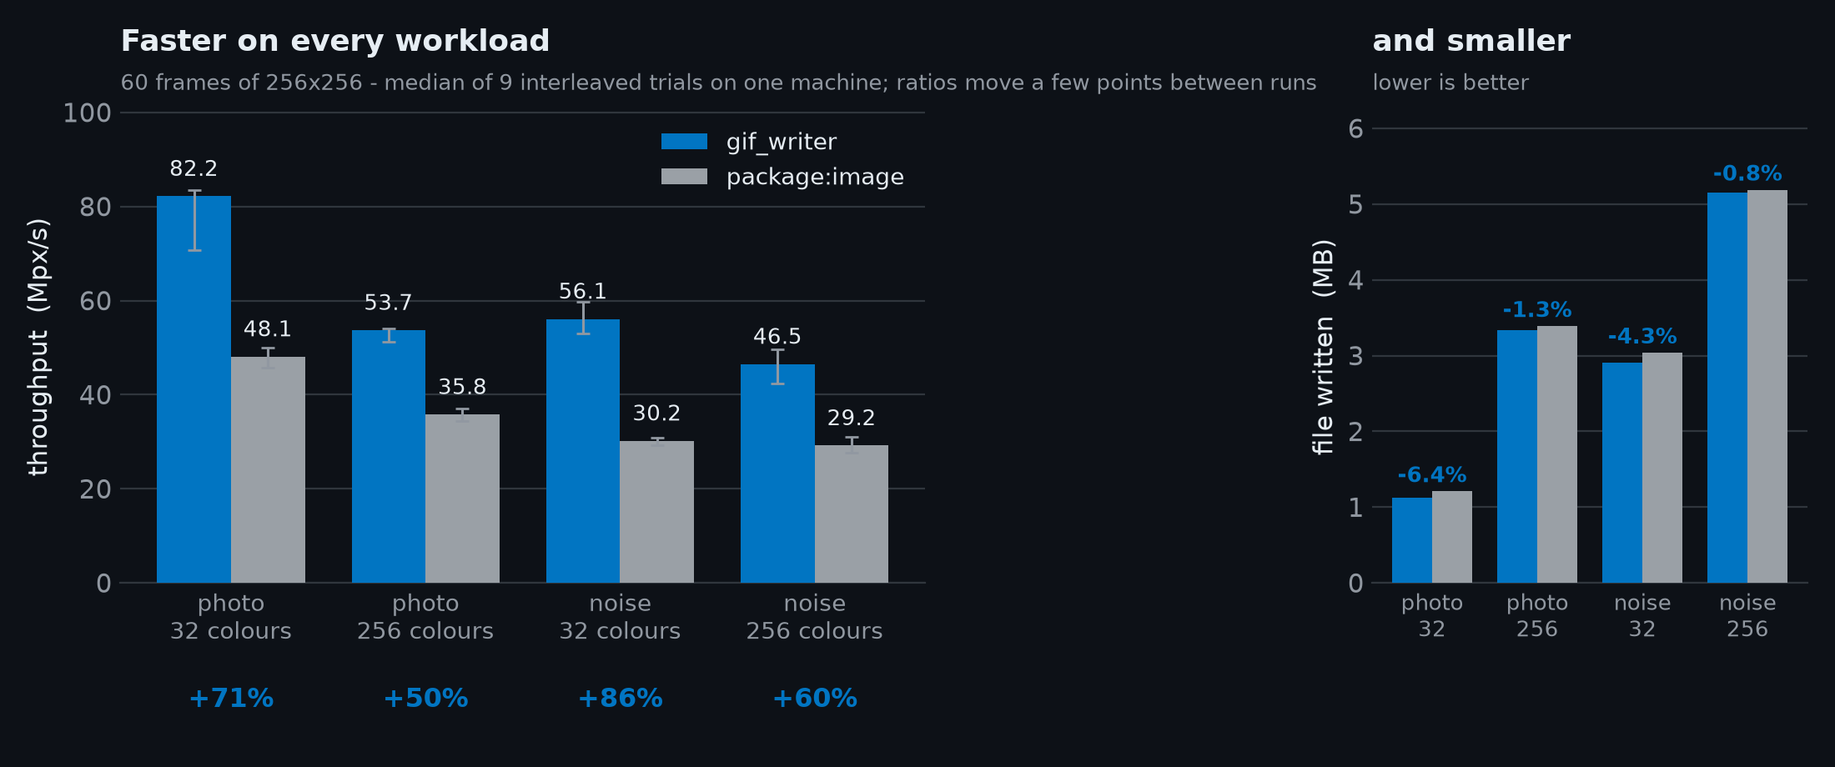
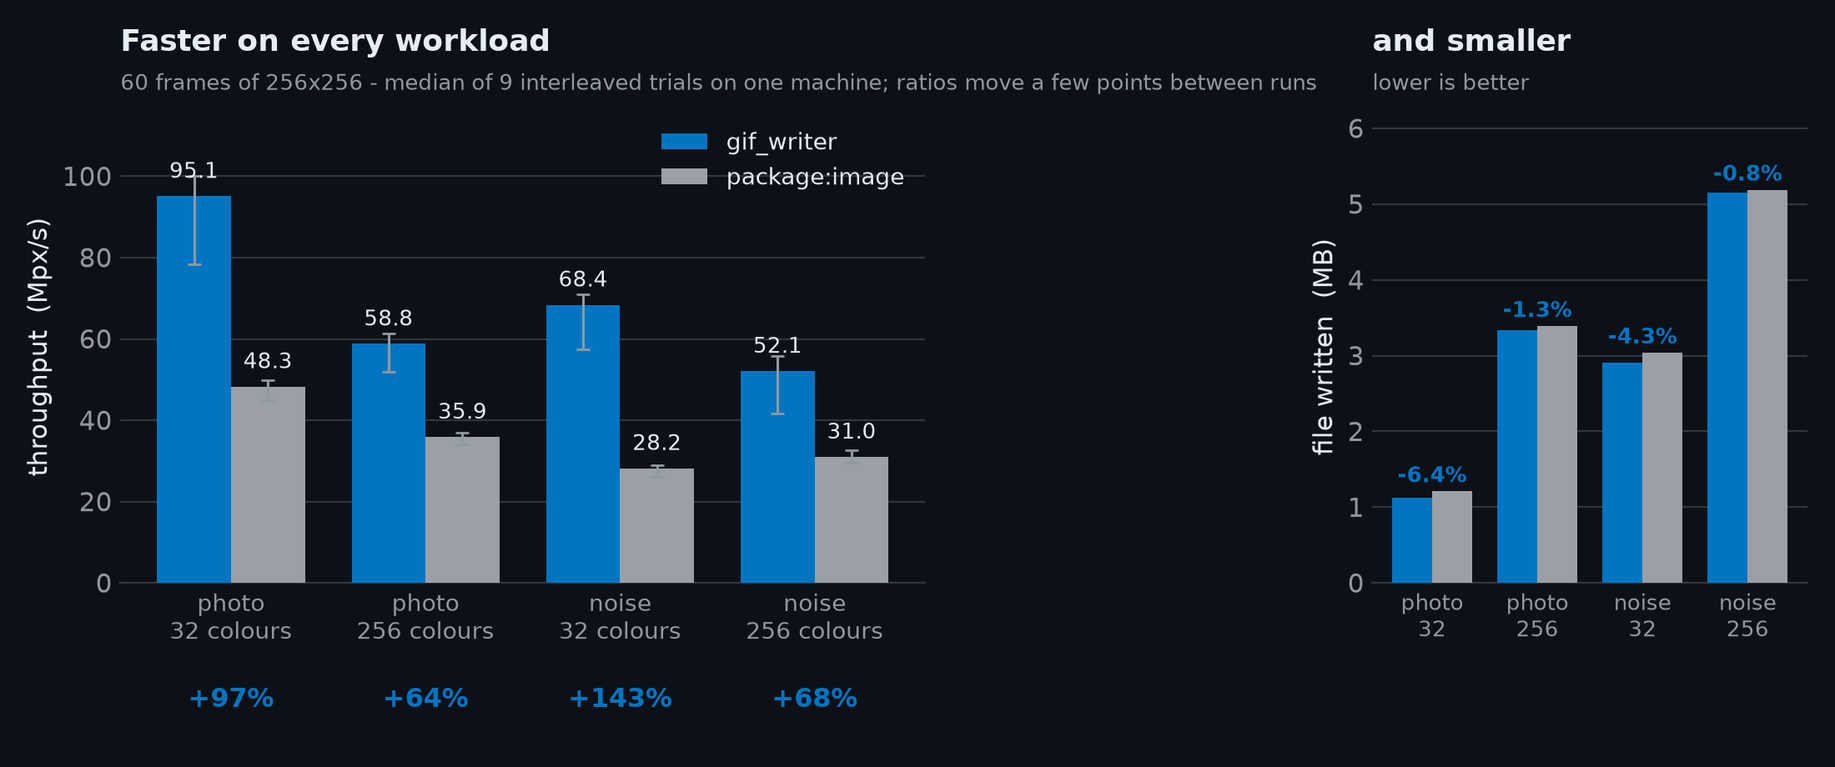
Enlarge the LZW hash to 32768 and report the benchmarks that justify it under AOT
- Set `_hashSize` to 32768; re-measured AOT across 8192/16384/32768/65536, it wins noise and photo now that epoch clearing is free, while 65536 loses the noise win to cache pressure (indexed output byte-identical; held memory 0.19 to 0.31 MB, still flat)
- Build `benchmark.dart` and `compare.dart` with `dart compile exe` and regenerate the README's throughput, comparison and memory figures as AOT medians; keep `dart run` as a documented quick path
- Fix a hardcoded `0.06 MB` label in the memory chart that ignored the value beside it
- Bump to 0.3.1, record both changes in the CHANGELOG, and mark the two items shipped in the roadmap

diff --git a/lib/src/lzw.dart b/lib/src/lzw.dart
@@ -21,7 +21,9 @@ const int _maxCodes = 1 << _maxCodeWidth;
 /// - **9973, prime, addressed with `key % _hashSize`.** Correct, and far better
 ///   than the broken hash it replaced, but a division per pixel is expensive
 ///   exactly where runs are long and the first probe already succeeds: it
-///   measured 86.8 Mpx/s on a gradient against 142.9 for what is here now.
+///   measured 86.8 Mpx/s on a gradient against the 142.9 of the power-of-two
+///   table that replaced it — both under the JIT of the day, before the sizing
+///   below was redone AOT.
 ///
 /// What wins is a power of two with a *mixing* hash and an **odd** displacement.
 /// Odd is coprime to a power of two, so the probe still visits every slot — the
@@ -29,25 +31,32 @@ const int _maxCodes = 1 << _maxCodeWidth;
 ///
 /// *Large*, because the classic 5003 the original UNIX `compress` used puts the
 /// load factor at 0.82, where open addressing probes several times per pixel; at
-/// 16384 it is 0.25. This is the top of the curve, and both neighbours were
-/// measured on the three benchmark workloads:
+/// 32768 it is 0.125. The four powers of two around it were measured together,
+/// AOT and interleaved, on the three benchmark workloads:
 ///
 /// | slots | memory | noise | photo | gradient |
 /// | ---: | ---: | ---: | ---: | ---: |
-/// | 8192 | 64 kB | 51.6 | 75.4 | 132.0 |
-/// | **16384** | **128 kB** | **59.7** | **89.5** | **142.9** |
-/// | 32768 | 256 kB | 60.9 | 88.2 | 137.0 |
+/// | 8192 | 64 kB | 51.3 | 76.3 | 152.7 |
+/// | 16384 | 128 kB | 59.5 | 88.1 | 158.1 |
+/// | **32768** | **256 kB** | **64.4** | **94.1** | **156.3** |
+/// | 65536 | 512 kB | 63.9 | 93.3 | 170.4 |
 ///
-/// Those three rows were measured when every reset **zeroed** this table, which
-/// is why 32768 looked like a wash: doubling the table doubled a clear that ran
-/// ten to seventeen times a frame, cancelling the shorter probes. Epoch stamping
-/// (see [_hashKeys]) removed that cost, so the comparison no longer holds and
-/// **the sizes want re-measuring** — a bigger table is now nearly free between
-/// frames and may well win.
+/// **32768 wins the two workloads that matter, and 65536 does not.** Noise is
+/// LZW's worst case and the truest test of the hash: it peaks at 32768 and falls
+/// back at 65536, where 512 kB of table no longer sits comfortably in cache.
+/// Photo, representative content, peaks at 32768 too. Only the gradient prefers a
+/// larger table — and the gradient is best case, long runs that barely touch the
+/// hash at all, so its column is the noisiest here and the least worth sizing for.
 ///
-/// 128 kB of `Int32List` is the current price, allocated once for the whole
-/// animation rather than per frame.
-const int _hashSize = 16384;
+/// This overturns the earlier finding that 16384 was the top of the curve. That
+/// was measured when every reset **zeroed** the table, so doubling the table
+/// doubled a clear that ran ten to seventeen times a frame and cancelled the
+/// shorter probes. Epoch stamping (see [_hashKeys]) made clearing nearly free,
+/// and once it is, 32768 wins outright. The only remaining cost of the larger
+/// table is its 256 kB of `Int32List`, paid once for the whole animation rather
+/// than per frame; the package's held memory rises from 0.19 MB to 0.31 MB with
+/// it, and stays flat at any length.
+const int _hashSize = 32768;
 const int _hashMask = _hashSize - 1;
 
 /// Where the epoch sits in a slot, above the 21 bits `key + 1` needs.
@@ -145,13 +154,13 @@ final class GifLzwEncoder {
         // quietly broken for small palettes: with 32 colours `pixel << 4` never
         // exceeds 496, so the xor never exceeds 4095 and **only 4096 slots can
         // ever be addressed, whatever the table's size**. The load factor is
-        // then 1.0 rather than 0.25 and the probe below walks a long way.
+        // then 1.0 rather than 0.125 and the probe below walks a long way.
         //
         // Shifting the key down by six folds `pixel` — which lives in bits 12
         // and up — into the low bits alongside `prefix`, so every slot is
         // reachable at every palette size. Measured on the three benchmark
-        // workloads, against that classic hash: 27.2 to 59.7 Mpx/s on noise,
-        // and 135.9 to 142.9 on a gradient.
+        // workloads, against that classic hash, both under the JIT of the day:
+        // 27.2 to 59.7 Mpx/s on noise, and 135.9 to 142.9 on a gradient.
         var slot = (key ^ (key >> 6)) & _hashMask;
         // Open addressing with a key-dependent displacement, which beats linear
         // probing badly here: consecutive pixels share a prefix, so keys arrive

diff --git a/tool/benchmark.dart b/tool/benchmark.dart
@@ -7,9 +7,12 @@ import 'sample_image.dart';
 
 /// Throughput of the encoder, measured rather than assumed.
 ///
-/// Run with `dart run tool/benchmark.dart`. Compare candidates **inside one
-/// run**: absolute figures move with the machine's thermal state and with what
-/// else it is doing, so only ratios measured together mean anything.
+/// Run it with `dart run tool/benchmark.dart` for a quick look, or — because the
+/// JIT's numbers wander — build it with `dart compile exe` and run that, which is
+/// how a Flutter release build runs this package and is the mode `ROADMAP.md`
+/// asks these numbers be reported in. Compare candidates **inside one run**:
+/// absolute figures move with the machine's thermal state and with what else it
+/// is doing, so only ratios measured together mean anything.
 ///
 /// A sink that counts and discards, so the disk is not being benchmarked.
 final class CountingSink implements StreamSink<List<int>> {
@@ -49,8 +52,9 @@ Future<void> main() async {
   final photo = SampleImage.photo(side: size, colours: colours);
 
   Future<void> run(String name, Uint8List frame) async {
-    // One untimed pass first: the JIT should be warm before the clock starts, or
-    // the first candidate measured always looks slowest.
+    // One untimed pass first: a cold run pays for cold caches and the CPU's
+    // frequency ramp, so the first candidate measured always looks slowest.
+    // (Under AOT there is no JIT to warm — this pass still matters.)
     for (var warm = 0; warm < 2; warm++) {
       final sink = CountingSink();
       final gif = GifWriter(sink, width: size, height: size, colors: table);

diff --git a/tool/compare.dart b/tool/compare.dart
@@ -7,7 +7,10 @@
 /// the comparison would say nothing. Both outputs are decoded and checked
 /// pixel-for-pixel before a single timing is printed.
 ///
-/// Run it yourself: `dart run tool/compare.dart`.
+/// Run it with `dart run tool/compare.dart`, or — because the JIT's numbers
+/// wander — build it first with `dart compile exe` and run that, which is how a
+/// Flutter release build runs this package and the mode `ROADMAP.md` asks these
+/// numbers be reported in.
 library;
 
 import 'dart:async';

diff --git a/tool/charts.py b/tool/charts.py
@@ -21,12 +21,12 @@ OUT = "doc"
 # 60 frames of 256x256, both encoders given pre-palettised input.
 WORKLOADS = ["photo\n32 colours", "photo\n256 colours",
              "noise\n32 colours", "noise\n256 colours"]
-OURS = [82.2, 53.7, 56.1, 46.5]
-OURS_LOW = [70.8, 51.2, 53.0, 42.4]
-OURS_HIGH = [83.5, 54.0, 59.7, 49.6]
-THEIRS = [48.1, 35.8, 30.2, 29.2]
-THEIRS_LOW = [45.8, 34.4, 29.3, 27.6]
-THEIRS_HIGH = [50.0, 37.0, 30.9, 31.0]
+OURS = [95.1, 58.8, 68.4, 52.1]
+OURS_LOW = [78.4, 51.9, 57.4, 41.7]
+OURS_HIGH = [100.0, 61.3, 71.0, 55.7]
+THEIRS = [48.3, 35.9, 28.2, 31.0]
+THEIRS_LOW = [45.0, 34.0, 26.1, 29.6]
+THEIRS_HIGH = [49.8, 37.0, 29.0, 32.6]
 
 OURS_MB = [1.13, 3.34, 2.91, 5.15]
 THEIRS_MB = [1.21, 3.39, 3.04, 5.19]
@@ -35,18 +35,18 @@ THEIRS_MB = [1.21, 3.39, 3.04, 5.19]
 # **Not derived from the MB above**, which are rounded to two places: doing that
 # printed -6.6% next to a table saying -6.4%, and a chart that disagrees with the
 # text beside it is worse than no chart.
-FASTER_PCT = [71, 50, 86, 60]
+FASTER_PCT = [97, 64, 143, 68]
 SMALLER_PCT = [6.4, 1.3, 4.3, 0.8]
 
 # Held in memory. `package:image` returns the finished file, so what it holds is
 # the file; this holds a fixed staging buffer and LZW table whatever the length.
 #
 # **Not the 0.06 the sink reports.** `compare.dart` measures the largest single
-# handover, which is the 64 kB staging buffer alone — it cannot see the 128 kB
+# handover, which is the 64 kB staging buffer alone — it cannot see the 256 kB
 # LZW string table, which is held just as permanently. Quoting the sink's number
-# put 0.06 here against the README's own "~192 kB" three sections down.
+# put 0.06 here against the README's own "~320 kB" three sections down.
 MB_PER_FRAME = 5.19 / 60      # measured, noise at 256 colours
-OURS_HELD_MB = 0.19           # 64 kB staging + 128 kB LZW table
+OURS_HELD_MB = 0.31           # 64 kB staging + 256 kB LZW table
 
 BLUE = "#0175C2"
 GREY = "#9AA0A6"
@@ -167,7 +167,8 @@ def memory(theme):
                 xy=(1000, 1000 * MB_PER_FRAME), xytext=(-8, -2),
                 textcoords="offset points", ha="right", va="top",
                 fontsize=11, fontweight="bold", color=GREY)
-    ax.annotate("0.06 MB - flat", xy=(1000, OURS_HELD_MB), xytext=(-8, 8),
+    ax.annotate(f"{OURS_HELD_MB:.2f} MB - flat", xy=(1000, OURS_HELD_MB),
+                xytext=(-8, 8),
                 textcoords="offset points", ha="right", va="bottom",
                 fontsize=11, fontweight="bold", color=BLUE)
 

diff --git a/README.md b/README.md
@@ -34,17 +34,17 @@ interleaved trials**, and every gap below is wider than the run-to-run spread of
 
 | workload | gif_writer | `package:image` | | gif_writer | `package:image` | |
 | :-- | --: | --: | :-- | --: | --: | :-- |
-| photo · 32 colours | **82.2 Mpx/s** | 48.1 Mpx/s | **+71%** | **1.13 MB** | 1.21 MB | **−6.4%** |
-| photo · 256 colours | **53.7 Mpx/s** | 35.8 Mpx/s | **+50%** | **3.34 MB** | 3.39 MB | **−1.3%** |
-| noise · 32 colours | **56.1 Mpx/s** | 30.2 Mpx/s | **+86%** | **2.91 MB** | 3.04 MB | **−4.3%** |
-| noise · 256 colours | **46.5 Mpx/s** | 29.2 Mpx/s | **+60%** | **5.15 MB** | 5.19 MB | **−0.8%** |
+| photo · 32 colours | **95.1 Mpx/s** | 48.3 Mpx/s | **+97%** | **1.13 MB** | 1.21 MB | **−6.4%** |
+| photo · 256 colours | **58.8 Mpx/s** | 35.9 Mpx/s | **+64%** | **3.34 MB** | 3.39 MB | **−1.3%** |
+| noise · 32 colours | **68.4 Mpx/s** | 28.2 Mpx/s | **+143%** | **2.91 MB** | 3.04 MB | **−4.3%** |
+| noise · 256 colours | **52.1 Mpx/s** | 31.0 Mpx/s | **+68%** | **5.15 MB** | 5.19 MB | **−0.8%** |
 | | *throughput* | | | *file written* | | |
 
-**1.5–1.9× faster, and the file is smaller every time.** Speed alone would not settle it — an encoder
+**1.6–2.4× faster, and the file is smaller every time.** Speed alone would not settle it — an encoder
 can always go faster by compressing worse — so the output size sits in the table beside it.
 
 The percentages are from one run on one machine, and they move: a second run of the same tool put
-noise · 32 at +95% and photo · 256 at +46%. What is stable across runs is the direction, the rough
+noise · 32 at +147% and photo · 256 at +66%. What is stable across runs is the direction, the rough
 size of the gap, and the file sizes, which are **byte-identical every time** because compression is
 deterministic. Treat the throughput column as "comfortably faster", not as four significant figures —
 and run it on your own hardware, which is the only number that describes your hardware.
@@ -53,11 +53,11 @@ And the number that is not a percentage:
 
 | | held in memory, 60 frames | held in memory, 1000 frames |
 | :-- | --: | --: |
-| **gif_writer** | **0.19 MB** | **0.19 MB** |
+| **gif_writer** | **0.31 MB** | **0.31 MB** |
 | `package:image` | 5.19 MB | ~87 MB |
 
-That 0.19 MB is the whole fixed overhead of the indexed path — a 64 kB staging
-buffer plus the 128 kB LZW string table — and it is the same number as
+That 0.31 MB is the whole fixed overhead of the indexed path — a 64 kB staging
+buffer plus the 256 kB LZW string table — and it is the same number as
 [Where the speed comes from](#where-the-speed-comes-from) below. Neither column
 counts the caller's own frame buffer, which both encoders need.
 
@@ -72,9 +72,10 @@ counts the caller's own frame buffer, which both encoders need.
 staging buffer. One side scales with the animation; the other does not — and that is the whole reason
 this package exists.
 
-Reproduce the numbers with [`dart run tool/compare.dart`](tool/compare.dart) — it decodes **both**
-outputs and checks every pixel against the input before reporting a single timing, and refuses to
-report at all if either encoder got the picture wrong. Redraw the charts with
+Reproduce the numbers by building [`tool/compare.dart`](tool/compare.dart) with `dart compile exe`
+and running that — AOT, because the JIT's numbers wander (see *A note on measuring this yourself*,
+below). It decodes **both** outputs and checks every pixel against the input before reporting a single
+timing, and refuses to report at all if either encoder got the picture wrong. Redraw the charts with
 [`python tool/charts.py`](tool/charts.py).
 
 ## The problem
@@ -215,7 +216,8 @@ dither's error rows are allocated on the **first RGB frame** and never before it
 
 ### Against `package:image`
 
-60 frames of 256×256, run with [`tool/compare.dart`](tool/compare.dart). Both encoders are given
+60 frames of 256×256, from [`tool/compare.dart`](tool/compare.dart) built with `dart compile exe`
+(AOT). Both encoders are given
 frames that **already carry a palette**, so neither quantises — otherwise `image` would be paying for
 NeuQuant this package does not implement, and the comparison would say nothing. The tool decodes both
 outputs and checks them pixel-for-pixel against the input before printing a single number; it refuses
@@ -239,13 +241,14 @@ encoder doing extra work would be worthless.
 
 ### On its own
 
-120 frames of 256×256 at 32 colours, [`tool/benchmark.dart`](tool/benchmark.dart):
+120 frames of 256×256 at 32 colours, [`tool/benchmark.dart`](tool/benchmark.dart) built with
+`dart compile exe` (AOT):
 
 | workload | throughput | range | output | sink writes |
 | :-- | ---: | ---: | ---: | ---: |
-| noise — worst case for LZW | **59.7 Mpx/s** | 54.0 – 61.6 | 5.82 MB | 121 |
-| photo — representative content | **89.5 Mpx/s** | 86.6 – 92.2 | 2.26 MB | 121 |
-| smooth gradient — best case | **142.9 Mpx/s** | 133.8 – 146.8 | 0.30 MB | 121 |
+| noise — worst case for LZW | **64.4 Mpx/s** | 50.3 – 67.2 | 5.82 MB | 121 |
+| photo — representative content | **94.1 Mpx/s** | 81.3 – 96.8 | 2.26 MB | 121 |
+| smooth gradient — best case | **156.3 Mpx/s** | 150.3 – 166.7 | 0.30 MB | 121 |
 
 Where it started, before any of the tuning below: 12.4 Mpx/s on noise and 36.6 on the gradient.
 
@@ -265,9 +268,9 @@ first RGB frame:
 
 | path | fixed overhead |
 | :-- | --: |
-| `addIndexedFrame` | **~192 kB** — a 64 kB staging buffer plus a 128 kB LZW string table |
-| `addRgbFrame`, ordered dither | ~288 kB — plus the 96 kB inverse colour cube |
-| `addRgbFrame`, error diffusion | ~288 kB + `12 × width` for two rows of error |
+| `addIndexedFrame` | **~320 kB** — a 64 kB staging buffer plus a 256 kB LZW string table |
+| `addRgbFrame`, ordered dither | ~416 kB — plus the 96 kB inverse colour cube |
+| `addRgbFrame`, error diffusion | ~416 kB + `12 × width` for two rows of error |
 
 All of it allocated **once for the whole animation** rather than per frame.
 
@@ -276,7 +279,7 @@ All of it allocated **once for the whole animation** rather than per frame.
 | **Open-addressed `Int32List` string table** | not a `Map<int, int>`. Probed once per pixel, the hottest loop here. |
 | **A hash every key can address** | the classic `(pixel << 4) ^ prefix` from the C implementations is quietly broken below 256 colours: at 32 it never exceeds 4095, so most of the table is unreachable and the load factor is 1.0. Mixing the key properly took noise from 27.2 to 59.7 Mpx/s. |
 | **A power-of-two table with an odd step** | odd is coprime to a power of two, so the probe still reaches every slot — what a prime table buys, without a division per pixel. The prime it replaced measured 86.8 Mpx/s on a gradient against 142.9. |
-| **Sized at a 0.25 load factor** | the classic 5003 slots puts 4096 codes at 0.82 and probes several times per pixel. 16384 measured 59.7 Mpx/s on noise against 8192's 51.6. 32768 looked like a wash when it was tried — but that was measured while every reset zeroed the table, and the row below removed that cost, so the sizes want re-measuring. |
+| **Sized at a 0.125 load factor** | the classic 5003 slots puts 4096 codes at 0.82 and probes several times per pixel. Measured AOT and interleaved across four powers of two, 32768 takes both noise (64.4 Mpx/s against 16384's 59.5) and photo, while 65536 gives the noise win back to cache pressure. 32768 looked like a wash the last time it was tried — but only because every reset then zeroed the table, and the row below made clearing nearly free; once it is, the bigger table wins. It costs 256 kB against 16384's 128 kB, which is why held memory is now 0.31 MB rather than 0.19. |
 | **A string table retired, not cleared** | the dictionary resets far more often than once per frame — measured at 256×256, ten times a frame on noise at 32 colours and seventeen at 256 — and each reset used to zero 64 kB. Slots now carry a generation counter, so a reset is an increment and the table is genuinely cleared only every 1023 generations. Interleaved against 0.2.0, AOT: **+47% noise, +26% photo, +24% gradient**. Encoded bytes unchanged. |
 | **Batched sink writes** | passing every 255-byte sub-block straight through cost **24,365** sink calls for a 5.8 MB animation. Batching makes it 121. |
 | **Sub-blocks written in place** | the length byte is reserved and patched afterwards, so compressed bytes are never staged in a scratch array and copied — that copy is a `memcpy` of the entire output. |
@@ -290,12 +293,17 @@ long and the first probe already succeeds.
 
 There was a third — that enlarging the hash past 16384 cost more in clearing between frames than it
 saved in probing. That was true when it was measured and is not any more: the table is no longer
-cleared between frames, so the finding died with the cost that caused it.
+cleared between frames, so the finding died with the cost that caused it — and the table is now
+32768, the size that dead cost had been hiding.
 
 **A note on measuring this yourself.** Under the JIT these workloads swung ±13% run to run on
 identical code, wide enough to hide a real 25% change — so a before-and-after pair of `dart run`
 timings will not settle anything. Compare with `dart compile exe`, alternating the two builds, which
-is both stable and how a Flutter release build actually runs this package.
+is both stable and how a Flutter release build actually runs this package. The headline tables above
+are AOT medians, and the hash sizing was re-measured that way for this release. The remaining
+before/after figures in *Where the speed comes from* — the broken-hash and prime-table comparisons —
+are the original JIT experiments against variants no longer in the code, so a gradient reading
+156 Mpx/s up top and 142.9 in those notes is JIT-versus-AOT, not a contradiction.
 
 ## API
 

diff --git a/ROADMAP.md b/ROADMAP.md
@@ -37,6 +37,17 @@ State: `[x]` done · `[ ]` open · `[~]` decided against, with the reason.
 - [x] A table-less writer closed with no frames writes a valid header with **no** global colour table,
       keeping the zero-frame guarantee even when nothing was ever derived.
 
+### 0.3.1
+- [x] **LZW hash table enlarged to 32768.** Re-measured AOT across 8192 / 16384 / 32768 / 65536
+      (separate `dart compile exe` builds, interleaved): 32768 wins noise and photo now that
+      epoch-stamped clearing made a bigger table nearly free; 65536 loses the noise win to cache
+      pressure. Indexed output byte-identical; held memory 0.19 → 0.31 MB, still flat at any length.
+- [x] **Benchmarks report AOT.** `tool/benchmark.dart` and `tool/compare.dart` build with
+      `dart compile exe` (JIT kept as a documented quick path); the README's throughput, comparison
+      and memory numbers are regenerated as AOT medians. Fixed a stale hardcoded `0.06 MB` label in
+      the memory chart, blind to the value beside it (the deeper `compare.dart` `peakHeld` fix is
+      still open below).
+
 ### Not yet tagged
 - [ ] **`v0.2.1` has no git tag.** `0.2.1` is published on pub.dev and `main` is at the right commit,
       but the tag list stops at `v0.2.0`: `git tag v0.2.1 <commit> && git push origin v0.2.1`.
@@ -50,24 +61,6 @@ State: `[x]` done · `[ ]` open · `[~]` decided against, with the reason.
       The README asserts "everything runs on the VM and under Chrome" with nothing enforcing it.
       This is the highest-value open item: every guard in this package is only as good as something
       running it.
-- [ ] **Re-measure `_hashSize`.** The 8192 / 16384 / 32768 table in `lib/src/lzw.dart` was measured
-      when every reset zeroed the table. That cost is gone, so the comparison that chose 16384 no
-      longer holds and a larger table may now win — clearing is nearly free between frames. The
-      doc-comment and the README both say so; the numbers still need redoing. Use the AOT method
-      below, or the answer will be noise.
-- [ ] **Benchmark methodology: report AOT.** `tool/benchmark.dart` and `tool/compare.dart` run under
-      the JIT. Measured during 0.2.1: the same code, unchanged, swung 53.3 to 63.0 Mpx/s on noise
-      across runs minutes apart — ±13%, wide enough to hide a real 25% change. Three separate JIT
-      A/B designs disagreed with each other; three separate AOT designs agreed to within a few
-      points. AOT is also how a Flutter release build runs this package. Switch the tools to
-      `dart compile exe`, or report both.
-
-      Method that worked, for whoever does this next: build both variants as separate executables,
-      alternate them A-B-A-B with the order swapped each pair, and take medians. Do **not** toggle a
-      variant behind a `static bool` inside one process — that makes the JIT discard and rebuild the
-      optimised code on every switch, and each arm ends up paying for the other. That mistake
-      produced a `smooth` "gain" of 5-8% against a physical ceiling of 2.8%, which is how it was
-      caught.
 - [ ] **`compare.dart` measures the wrong memory.** `CountingSink.peakHeld` records the largest
       single handover to the sink, which is the staging buffer alone — it cannot see the 128 kB LZW
       table held just as permanently. That is where the README's wrong 0.06 MB came from. Report the

diff --git a/CHANGELOG.md b/CHANGELOG.md
@@ -1,3 +1,33 @@
+## 0.3.1
+
+A performance release. The LZW hash table is larger, and the benchmarks that justify it now run the
+way a release build does. **Indexed output is byte-identical to 0.3.0** — what changed is how fast the
+bytes are produced and how the encoder is measured, not the bytes themselves.
+
+### Changed
+
+- **The LZW string table is now 32768 slots, up from 16384.** Re-measured AOT across four sizes, the
+  larger table wins the two workloads that matter — noise (LZW's worst case) and photographic content
+  — now that retiring the dictionary by an epoch counter, rather than zeroing it, made clearing a
+  bigger table nearly free. 65536 was measured too and loses the noise win back to cache pressure.
+  Fixed overhead for the indexed path rises from ~192 kB to ~320 kB (a 256 kB table against 128 kB),
+  so held memory goes from 0.19 MB to 0.31 MB — still **flat at any animation length**, which is the
+  property that matters.
+- **`tool/benchmark.dart` and `tool/compare.dart` report AOT.** They are built with `dart compile exe`
+  rather than run under the JIT, whose numbers swung ±13% run to run — wide enough to hide a real
+  change, and not how a Flutter release build runs this package. `dart run` stays documented as a
+  quick path. The README's throughput, comparison and memory figures are regenerated as AOT medians.
+
+### Fixed
+
+- The memory chart's "held" label was a hardcoded literal reading `0.06 MB` regardless of the value it
+  sat beside; it now derives from that value.
+
+### Notes
+
+- Output bytes are unchanged: a hash table's size affects only how quickly codes are found, never
+  which codes are emitted. The round-trip suite passes unchanged.
+
 ## 0.3.0
 
 The encoder now chooses a palette for you. Someone holding a photo or a video frame has RGB and no
